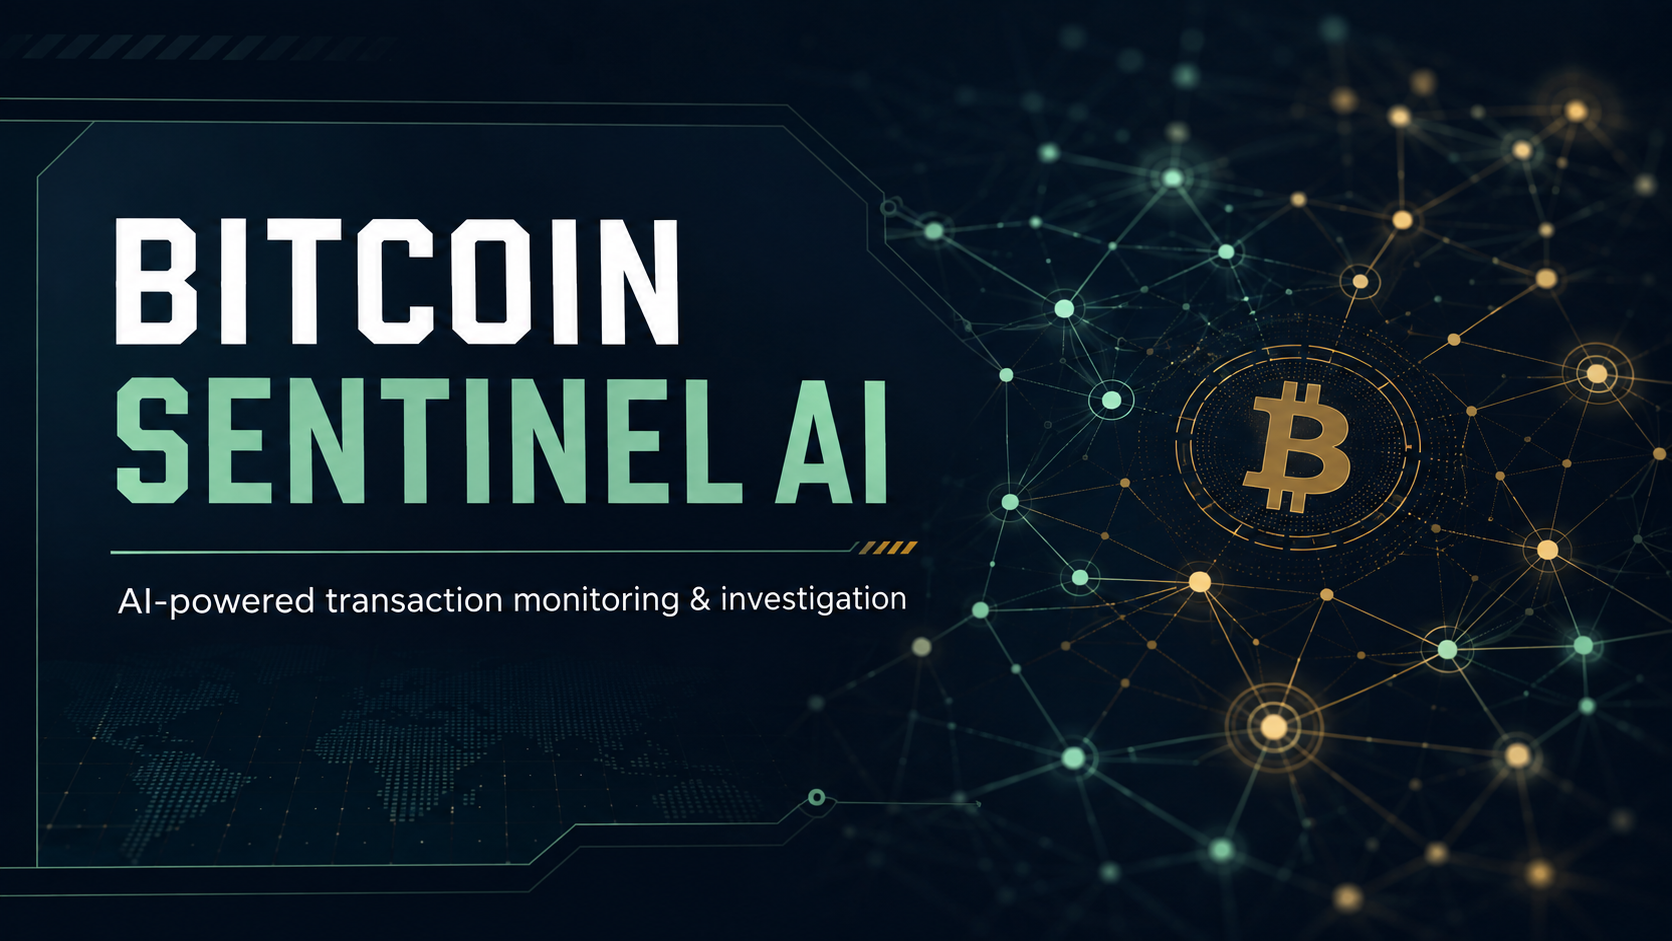
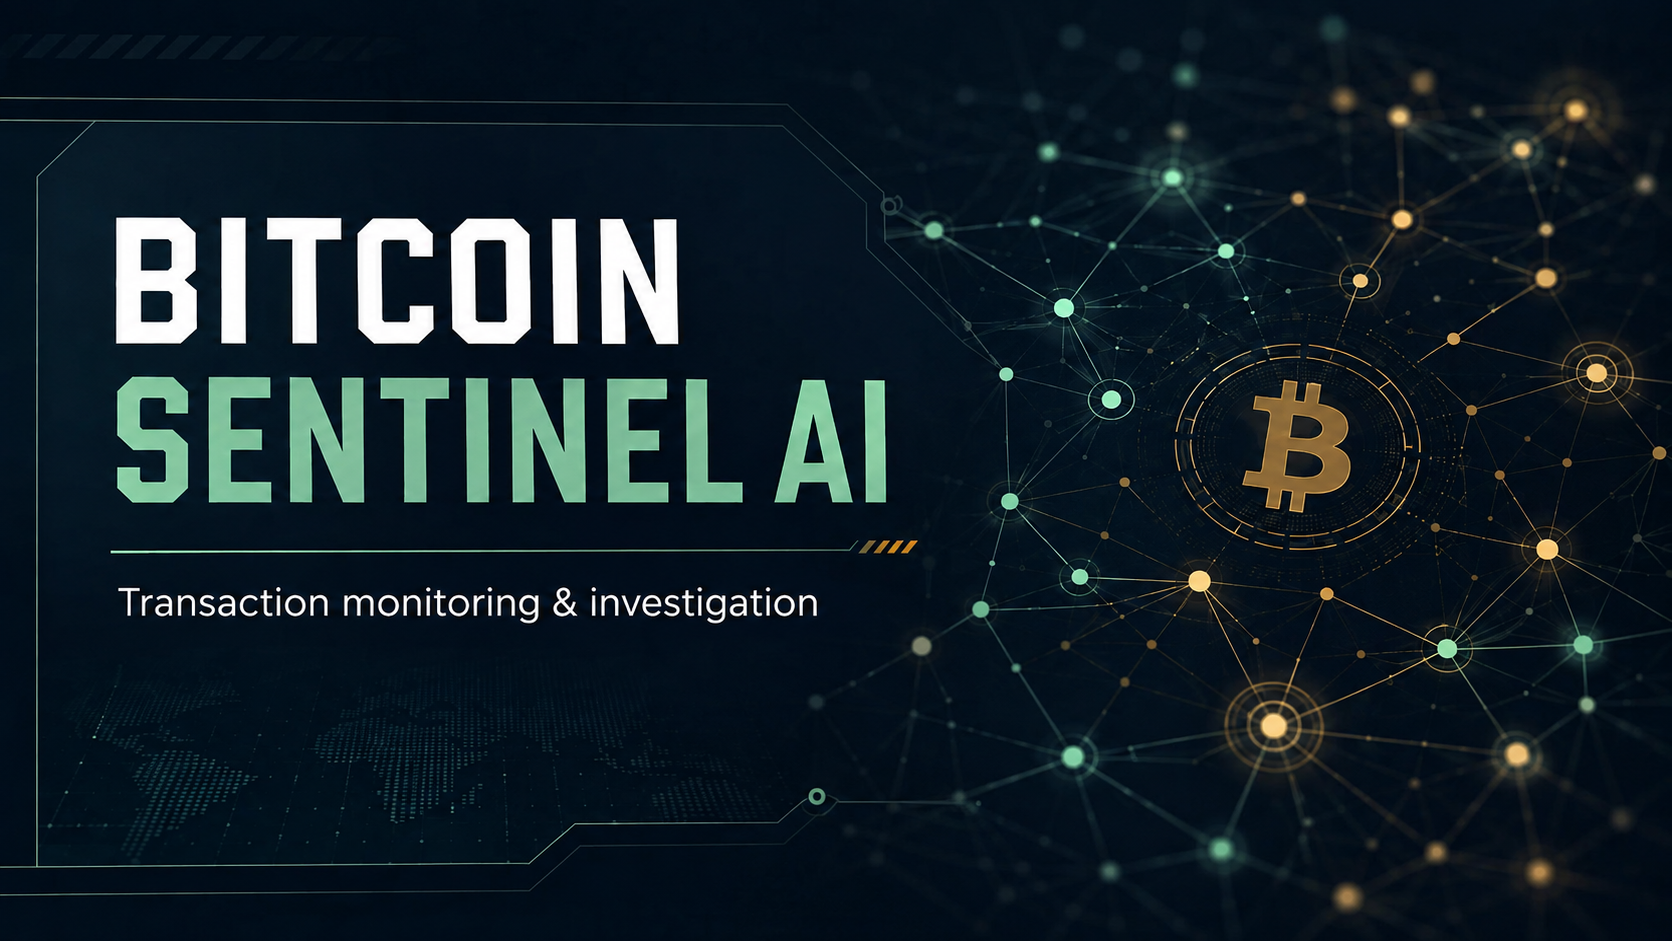
Remove AI-powered wording

diff --git a/frontend/dashboard.html b/frontend/dashboard.html
@@ -9,13 +9,13 @@
       content="Bitcoin Sentinel — evidence-led Bitcoin transaction analysis for investigation teams."
     />
     <meta property="og:title" content="Bitcoin Sentinel" />
-    <meta property="og:description" content="AI-powered Bitcoin transaction monitoring and investigation." />
+    <meta property="og:description" content="Bitcoin transaction monitoring and investigation." />
     <meta property="og:type" content="website" />
-    <meta property="og:image" content="https://raw.githubusercontent.com/m4in4k/SIH-2026/main/frontend/public/og.png" />
+    <meta property="og:image" content="https://sentineltool.vercel.app/og.png?v=2" />
     <meta name="twitter:card" content="summary_large_image" />
     <meta name="twitter:title" content="Bitcoin Sentinel" />
-    <meta name="twitter:description" content="AI-powered Bitcoin transaction monitoring and investigation." />
-    <meta name="twitter:image" content="https://raw.githubusercontent.com/m4in4k/SIH-2026/main/frontend/public/og.png" />
+    <meta name="twitter:description" content="Bitcoin transaction monitoring and investigation." />
+    <meta name="twitter:image" content="https://sentineltool.vercel.app/og.png?v=2" />
     <title>Bitcoin Sentinel | Investigation workspace</title>
   </head>
   <body>

diff --git a/frontend/index.html b/frontend/index.html
@@ -9,13 +9,13 @@
       content="Bitcoin Sentinel — evidence-led Bitcoin transaction analysis for investigation teams."
     />
     <meta property="og:title" content="Bitcoin Sentinel" />
-    <meta property="og:description" content="AI-powered Bitcoin transaction monitoring and investigation." />
+    <meta property="og:description" content="Bitcoin transaction monitoring and investigation." />
     <meta property="og:type" content="website" />
-    <meta property="og:image" content="https://raw.githubusercontent.com/m4in4k/SIH-2026/main/frontend/public/og.png" />
+    <meta property="og:image" content="https://sentineltool.vercel.app/og.png?v=2" />
     <meta name="twitter:card" content="summary_large_image" />
     <meta name="twitter:title" content="Bitcoin Sentinel" />
-    <meta name="twitter:description" content="AI-powered Bitcoin transaction monitoring and investigation." />
-    <meta name="twitter:image" content="https://raw.githubusercontent.com/m4in4k/SIH-2026/main/frontend/public/og.png" />
+    <meta name="twitter:description" content="Bitcoin transaction monitoring and investigation." />
+    <meta name="twitter:image" content="https://sentineltool.vercel.app/og.png?v=2" />
     <title>Bitcoin Sentinel | Investigation workspace</title>
   </head>
   <body>

diff --git a/frontend/src/Landing.tsx b/frontend/src/Landing.tsx
@@ -77,7 +77,7 @@ function Hero() {
           Understand the chain.
         </h1>
         <p>
-          AI-powered monitoring and analysis of Bitcoin transaction traffic.
+          Continuous monitoring and analysis of Bitcoin transaction traffic.
           Detect unusual activity, investigate suspicious patterns, and turn
           blockchain data into actionable evidence.
         </p>
@@ -161,7 +161,7 @@ function Capabilities() {
     {
       name: "AI Anomaly Detection",
       description:
-        "Use AI-driven behavioral analysis to identify transaction patterns that deviate from expected activity and may indicate suspicious behavior.",
+        "Use behavioral analysis to identify transaction patterns that deviate from expected activity and may indicate suspicious behavior.",
     },
     {
       name: "Risk & Priority Signals",
@@ -271,7 +271,7 @@ function Footer() {
         <small>BITCOIN INTELLIGENCE</small>
       </div>
       <div className="muted">
-        IF-LOOP — AI-Powered Monitoring & Analysis of Bitcoin Transaction Traffic
+        IF-LOOP — Monitoring & Analysis of Bitcoin Transaction Traffic
       </div>
     </footer>
   );
